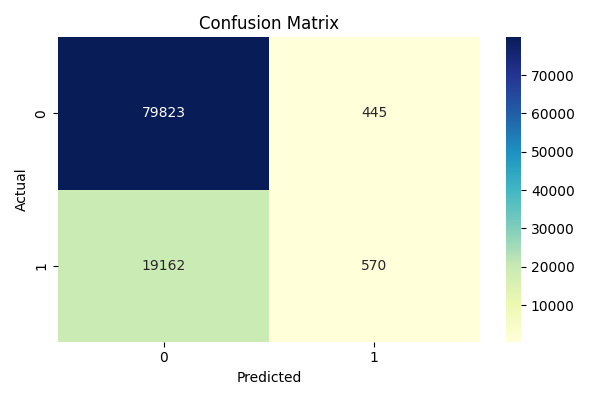
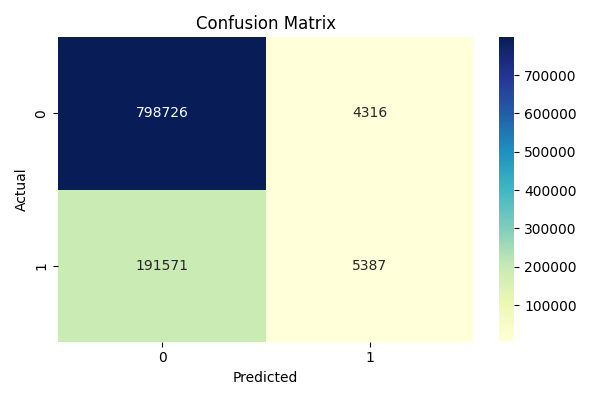
updated may 13 2025

diff --git a/simulate_score.py b/simulate_score.py
@@ -1,0 +1,90 @@
+import streamlit as st
+import pandas as pd
+import numpy as np
+import joblib
+import os
+
+# Ruta dinámica del modelo
+BASE_DIR = os.path.dirname(os.path.abspath(__file__))
+MODEL_PATH = os.path.join(BASE_DIR, "models", "lgb_credit_model.pkl")
+
+# Configuración del panel
+st.set_page_config(page_title="Simulador de Scoring Crediticio", layout="centered")
+
+# Cargar modelo
+@st.cache(allow_output_mutation=True)
+def load_model(path):
+    if not os.path.exists(path):
+        st.error(f"Modelo no encontrado en {path}")
+        st.stop()
+    return joblib.load(path)
+
+model = load_model(MODEL_PATH)
+
+# Función para generar cliente aleatorio
+def generar_cliente():
+    return {
+        "age": np.random.randint(21, 65),
+        "income": int(max(5000, np.random.normal(40000, 12000))),
+        "employment_years": np.random.randint(0, 35),
+        "loan_amount": np.random.randint(1000, 20000),
+        "credit_history_length": np.random.randint(1, 15),
+        "num_credit_lines": np.random.randint(1, 10),
+        "late_payments": np.random.poisson(1.2),
+        "region": np.random.choice(["North", "South", "East", "West"]),
+        "has_dependents": np.random.choice([0, 1])
+    }
+
+# Interfaz Streamlit
+st.title(" Simulador de Scoring Crediticio")
+
+modo = st.radio("Modo de ingreso de datos", ["Manual", "Simular aleatoriamente"])
+
+if modo == "Simular aleatoriamente":
+    cliente = generar_cliente()
+    st.success("Cliente generado aleatoriamente:")
+    st.json(cliente)
+else:
+    st.subheader("Ingrese los datos del cliente:")
+    cliente = {
+        "age": st.number_input("Edad", min_value=18, max_value=100, value=30),
+        "income": st.number_input("Ingreso ($)", min_value=1000, value=30000, step=100),
+        "employment_years": st.number_input("Años de empleo", min_value=0, max_value=50, value=5),
+        "loan_amount": st.number_input("Monto del préstamo ($)", min_value=500, value=7000, step=100),
+        "credit_history_length": st.number_input("Antigüedad crediticia (años)", min_value=1, max_value=50, value=4),
+        "num_credit_lines": st.number_input("Número de líneas de crédito", min_value=1, max_value=20, value=3),
+        "late_payments": st.number_input("Pagos tardíos históricos", min_value=0, max_value=100, value=1),
+        "region": st.selectbox("Región", ["North", "South", "East", "West"]),
+        "has_dependents": st.radio("¿Tiene dependientes?", [0, 1], format_func=lambda x: "Sí" if x == 1 else "No")
+    }
+
+# Cálculo de score
+if st.button("Calcular Score"):
+    df_input = pd.DataFrame([cliente])
+    df_input["region"] = df_input["region"].astype("category")
+
+    prob_default = model.predict_proba(df_input)[0][1]
+    st.metric("Probabilidad de Default (%)", f"{prob_default*100:.2f}%")
+
+    if prob_default >= 0.7:
+        st.error(" Riesgo ALTO")
+    elif prob_default >= 0.4:
+        st.warning(" Riesgo MODERADO")
+    else:
+        st.success(" Riesgo BAJO")
+
+# --- Autoejecución como app Streamlit ---
+if __name__ == "__main__":
+    import threading
+    import time
+    import webbrowser
+    import streamlit.web.bootstrap
+
+    if os.environ.get("STREAMLIT_SERVER_RUN_ONCE", "0") != "1":
+        def abrir_navegador():
+            time.sleep(1.5)
+            webbrowser.open("http://localhost:8501")
+
+        os.environ["STREAMLIT_SERVER_RUN_ONCE"] = "1"
+        threading.Thread(target=abrir_navegador).start()
+        streamlit.web.bootstrap.run(__file__, "", [], {})

diff --git a/generate_credit_data.py b/generate_credit_data.py
@@ -14,7 +14,7 @@ import numpy as np
 import os
 
 # ---------------- CONFIGURACIÓN ----------------
-n_samples = 500000
+n_samples = 5000000
 output_file = "data/credit_data.csv"
 # ------------------------------------------------
 
